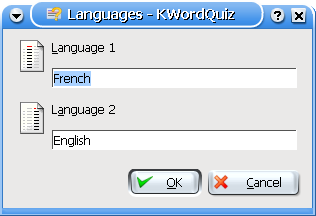
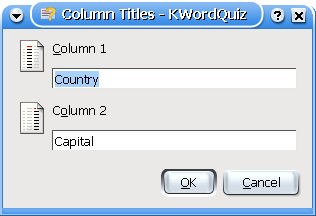
Changed Language to Column title
svn path=/trunk/kdeedu/doc/kwordquiz/; revision=305522

diff --git a/src/kwordquiz.cpp b/src/kwordquiz.cpp
@@ -148,8 +148,8 @@ void KWordQuizApp::initActions()
   editUnmarkBlank->setWhatsThis(i18n("Remove blanks for the current or selected word"));
   //@todo implement editFind = KStdAction::find(this, SLOT(slotEditFind()), actionCollection());
 
-  vocabLanguages = new KAction(i18n("&Languages..."), locate("data", "kwordquiz/pics/languages.png"), "CTRL+L", this, SLOT(slotVocabLanguages()), actionCollection(),"vocab_languages");
-  vocabLanguages->setWhatsThis(i18n("Define languages or other identifiers for the active vocabulary"));
+  vocabLanguages = new KAction(i18n("&Column Titles..."), locate("data", "kwordquiz/pics/languages.png"), "CTRL+L", this, SLOT(slotVocabLanguages()), actionCollection(),"vocab_languages");
+  vocabLanguages->setWhatsThis(i18n("Define column titles for the active vocabulary"));
   vocabFont = new KAction(i18n("&Font..."), "fonts", 0, this, SLOT(slotVocabFont()), actionCollection(),"vocab_font");
   vocabFont->setWhatsThis(i18n("Define the font used by the editor"));
   //@todo implement vocabKeyboard = new KAction(i18n("&Keyboard..."), "kxkb", 0, this, SLOT(slotVocabKeyboard()), actionCollection(),"vocab_keyboard");
@@ -708,7 +708,7 @@ void KWordQuizApp::slotEditFind()
 
 void KWordQuizApp::slotVocabLanguages()
 {
-  slotStatusMsg(i18n("Setting the languages of the vocabulary..."));
+  slotStatusMsg(i18n("Setting the column titles of the vocabulary..."));
   DlgLanguage* dlg;
   dlg = new DlgLanguage(this, "dlg_lang", true);
   dlg->setInitialSize(QSize(310, 180), true);

diff --git a/src/kwordquizview.cpp b/src/kwordquizview.cpp
@@ -53,8 +53,8 @@ KWordQuizView::KWordQuizView(QWidget *parent, const char *name) : QTable(parent,
   setColumnWidth(1, 250);
   setColumnWidth(0, 250);
   setSelectionMode(QTable::Single);
-  horizontalHeader()->setLabel(0, i18n("Language 1"));
-  horizontalHeader()->setLabel(1, i18n("Language 2"));
+  horizontalHeader()->setLabel(0, i18n("Column 1"));
+  horizontalHeader()->setLabel(1, i18n("Column 2"));
   setMinimumSize(0, 0); //This seems to improve resizing of main window
   dlgSpecChar = 0;
 }

diff --git a/src/dlglanguage.cpp b/src/dlglanguage.cpp
@@ -18,7 +18,7 @@
 #include "dlglanguage.h"
 #include "dlglanguagebase.h"
 
-DlgLanguage::DlgLanguage(QWidget *parent, const char *name, bool modal): KDialogBase(Plain, i18n("Languages"), Ok|Cancel, Ok, parent, name, modal, true)
+DlgLanguage::DlgLanguage(QWidget *parent, const char *name, bool modal): KDialogBase(Plain, i18n("Column Titles"), Ok|Cancel, Ok, parent, name, modal, true)
 {
   dlgBase = new DlgLanguageBase( this, "Dlg" );
   setMainWidget(dlgBase);
